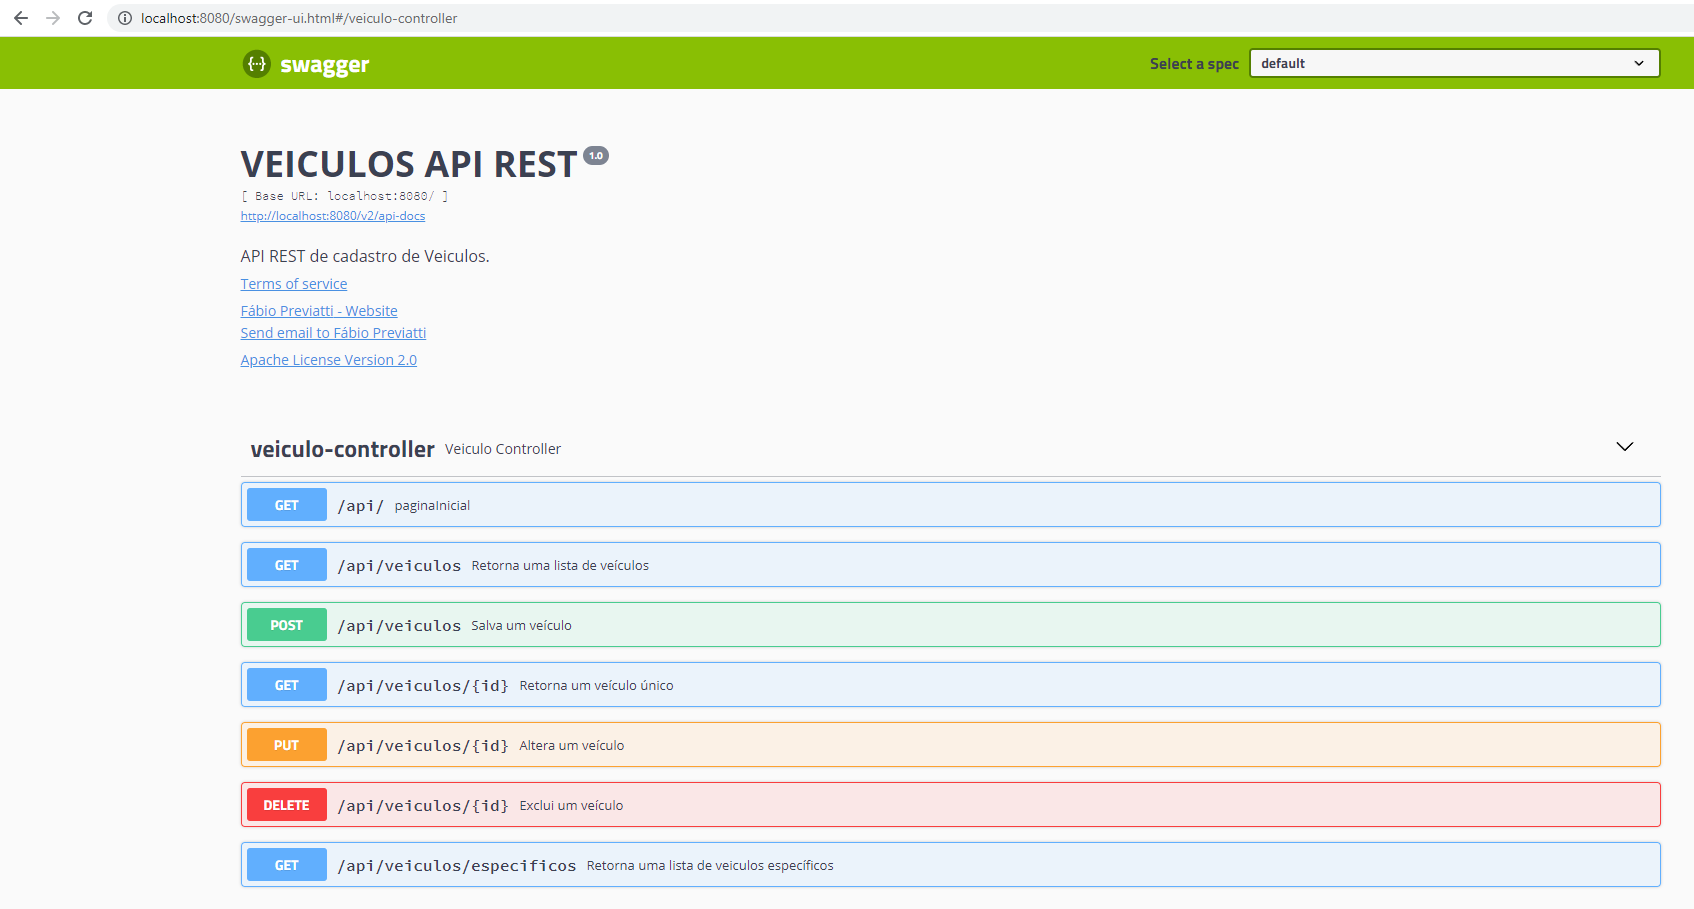
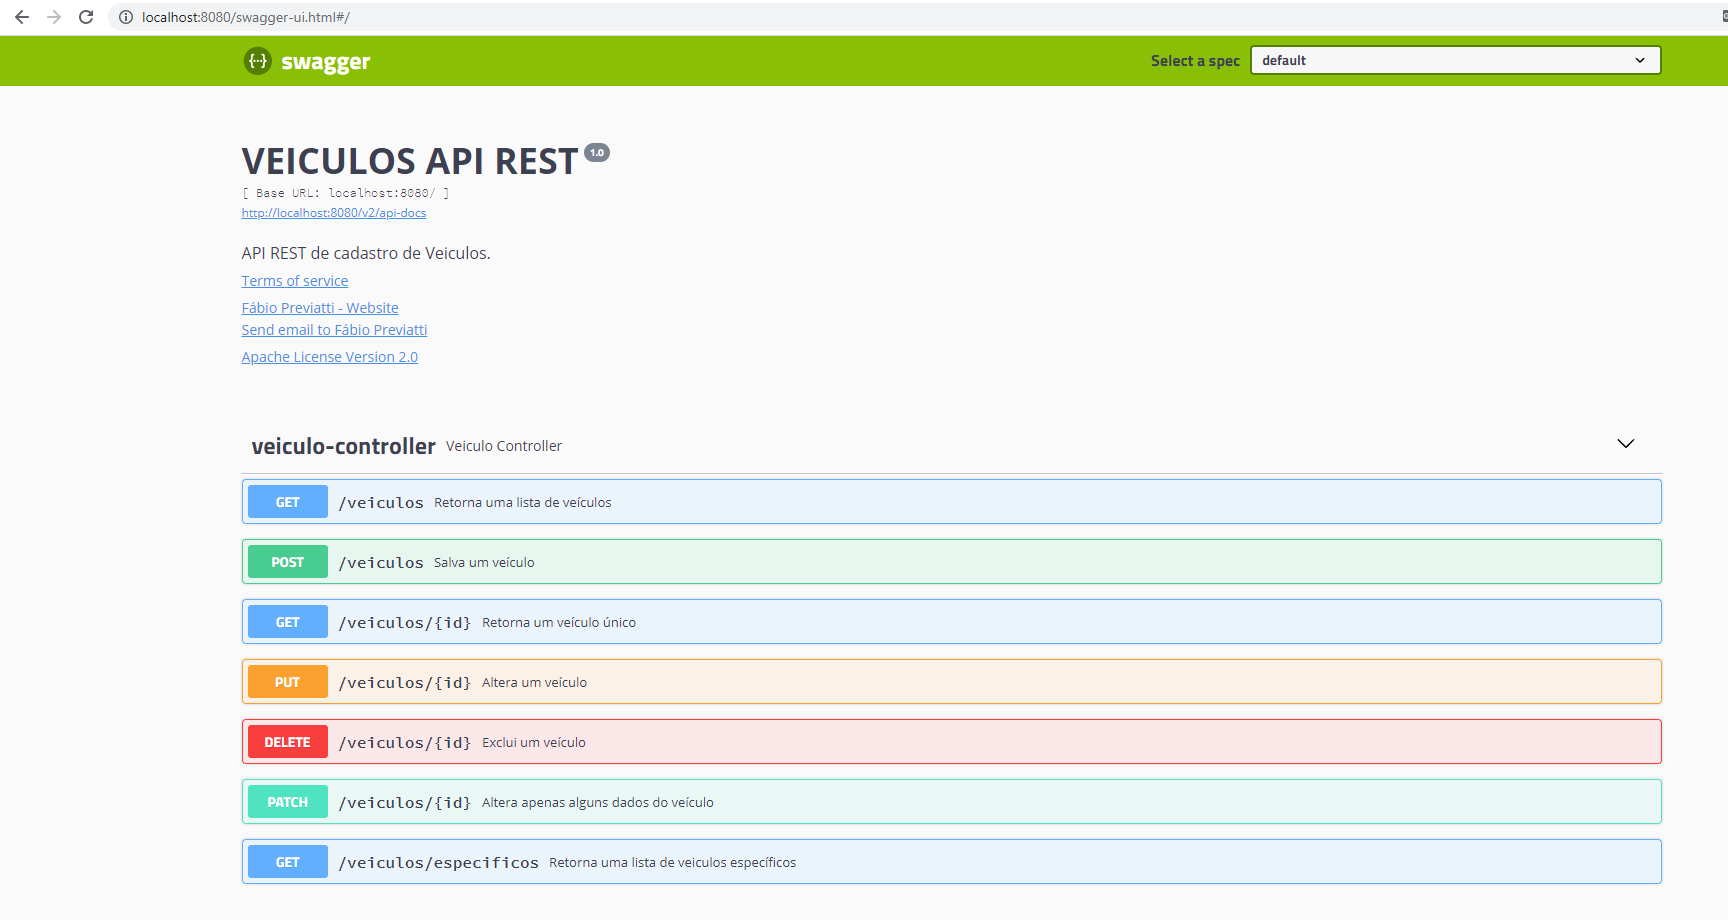
ajustes e finalizacao dos endpoints

diff --git a/src/main/java/com/desafio/controller/VeiculoController.java b/src/main/java/com/desafio/controller/VeiculoController.java
@@ -10,17 +10,19 @@ import org.springframework.http.MediaType;
 import org.springframework.stereotype.Controller;
 import org.springframework.ui.Model;
 import org.springframework.web.bind.annotation.*;
-
+import springfox.documentation.annotations.ApiIgnore;
 import java.time.LocalDateTime;
+import java.util.List;
 import java.util.stream.Collectors;
 
 @Controller
 @Api(value = "API REST Veiculos")
-@RequestMapping(value="/api")
+@RequestMapping(value="/")
 @CrossOrigin(origins = "*")
 
 public class VeiculoController {
     JSONObject obj;
+    List<JSONObject> objList;
     VeiculoController(){
         obj = new JSONObject();
     }
@@ -29,6 +31,7 @@ public class VeiculoController {
     VeiculoService veiculoService;
 
     @GetMapping(value = "/")
+    @ApiIgnore
     public String paginaInicial(Model memoria){
 
         memoria.addAttribute("listaVeiculos", veiculoService.listarVeiculos()
@@ -58,9 +61,12 @@ public class VeiculoController {
 
         var lista = veiculoService.buscarVeiculosPorMarcaAnoCor(marca,ano,cor);
 
-        System.out.println("chamou método listarVeiculosEspecificos");
-
-        obj.put("veiculos", lista);
+        if(lista!=null){
+            lista.stream()
+                    .forEach(veiculo -> {
+                        obj.put("veiculos", lista);
+                    });
+        }
 
         return obj;
     }
@@ -85,7 +91,7 @@ public class VeiculoController {
         veiculo.setUpdated(LocalDateTime.now());
 
         veiculoService.salvarVeiculo(veiculo);
-        return "redirect:/api/";
+        return "redirect:/";
     }
 
     @DeleteMapping(value = "veiculos/{id}")
@@ -94,20 +100,33 @@ public class VeiculoController {
 
         veiculoService.excluirVeiculo(id);
 
-        return "redirect:/api/";
+        return "redirect:/";
     }
 
-    @PutMapping("veiculos/{id}")
+    @RequestMapping(value = "veiculos/{id}", method={RequestMethod.PUT})
     @ApiOperation(value="Altera um veículo")
-    public String alterarVeiculo(Veiculo veiculo, @PathVariable Long id){
+    public String alterarVeiculo(@RequestBody Veiculo veiculo, @PathVariable Long id){
         var veiculoEncontrado = veiculoService.listarVeiculoPorId(id);
 
-        veiculo.setUpdated(LocalDateTime.now());
-
-        if(veiculoEncontrado!=null){
+        if(veiculoEncontrado.isPresent()){
             veiculoService.atualizarVeiculo(veiculo);
         }
-        return "redirect:/api/";
+
+        return "redirect:/";
     }
 
+    @RequestMapping(value = "veiculos/{id}", method={RequestMethod.PATCH})
+    @ApiOperation(value="Altera apenas alguns dados do veículo")
+    public String alterarApenasAlgunsDadosDoVeiculo(@PathVariable Long id, @RequestBody Integer ano){
+
+        var veiculoEncontrado = veiculoService.listarVeiculoPorId(id);
+
+        if(veiculoEncontrado.isPresent()){
+            var veiculo = veiculoEncontrado.get();
+
+            veiculo.setAno(ano);
+            veiculoService.atualizarVeiculo(veiculo);
+        }
+        return "redirect:/";
+    }
 }

diff --git a/src/main/java/com/desafio/repository/VeiculoRepository.java b/src/main/java/com/desafio/repository/VeiculoRepository.java
@@ -2,11 +2,14 @@ package com.desafio.repository;
 
 import com.desafio.entidade.Veiculo;
 import org.springframework.data.jpa.repository.JpaRepository;
+import org.springframework.data.jpa.repository.Query;
 
+import java.util.List;
 import java.util.Optional;
 
 public interface VeiculoRepository extends JpaRepository<Veiculo,Long> {
 
-    public Optional<Veiculo> findByMarcaAndAnoAndCor(String nome, int ano, String cor);
+    @Query(name = "Veiculo.buscarPorParametrosPassados")
+    public List<Veiculo> buscarPorParametrosPassados(String marca, int ano, String cor);
 
 }

diff --git a/src/main/java/com/desafio/service/VeiculoService.java b/src/main/java/com/desafio/service/VeiculoService.java
@@ -37,8 +37,7 @@ public class VeiculoService {
         repository.saveAndFlush(veiculo);
     }
 
-    public Optional<Veiculo> buscarVeiculosPorMarcaAnoCor(String marca, int ano, String cor){
-
-        return repository.findByMarcaAndAnoAndCor(marca,ano,cor);
+    public List<Veiculo> buscarVeiculosPorMarcaAnoCor(String marca, int ano, String cor){
+        return repository.buscarPorParametrosPassados(marca,ano,cor);
     }
 }

diff --git a/src/main/java/com/desafio/config/SwaggerConfig.java b/src/main/java/com/desafio/config/SwaggerConfig.java
@@ -23,7 +23,7 @@ public class SwaggerConfig {
         return new Docket(DocumentationType.SWAGGER_2)
                 .select()
                 .apis(RequestHandlerSelectors.basePackage("com.desafio"))
-                .paths(regex("/api.*"))
+                .paths(regex("/.*"))
                 .build()
                 .apiInfo(metaInfo());
     }

diff --git a/src/main/java/com/desafio/entidade/Veiculo.java b/src/main/java/com/desafio/entidade/Veiculo.java
@@ -6,6 +6,10 @@ import java.time.LocalDateTime;
 
 @Entity
 @Table(name="veiculo")
+@NamedNativeQuery(
+        name = "Veiculo.buscarPorParametrosPassados",
+        query = "select * from veiculo where marca = ?1 and ano = ?2  and cor = ?3",
+        resultClass = Veiculo.class)
 public class Veiculo {
 
     @Id
